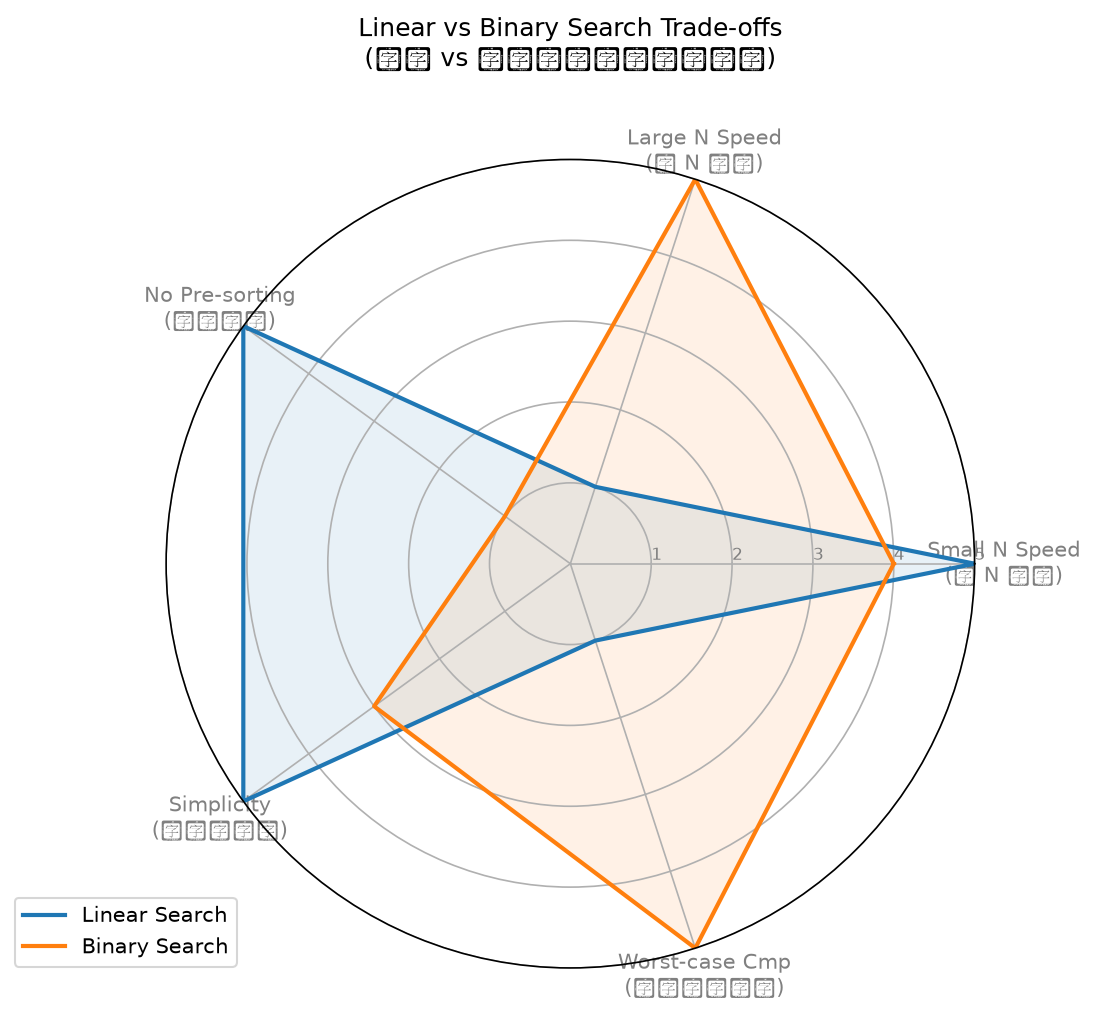
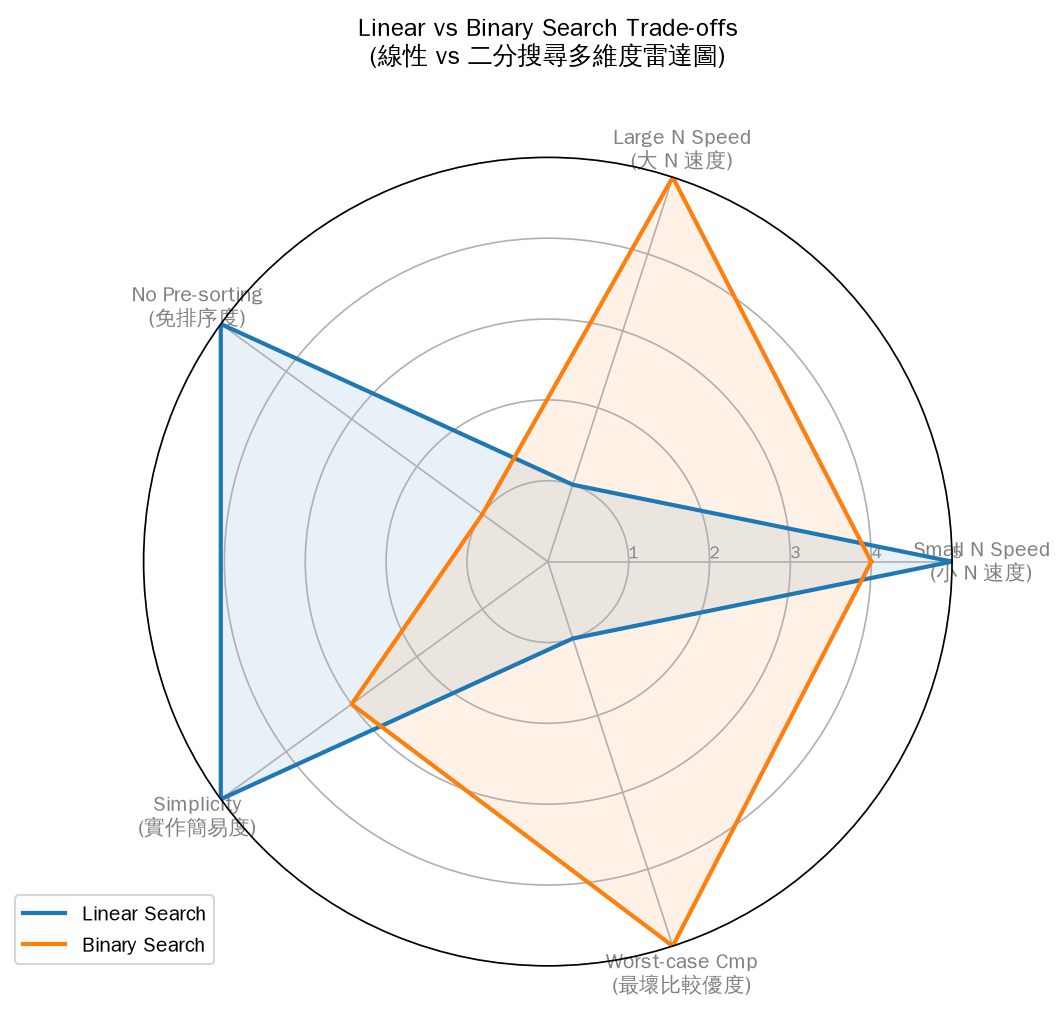
fix: fix missing Chinese fonts in radar chart

diff --git a/weeks/week-18/solutions/1114405020/plot.py b/weeks/week-18/solutions/1114405020/plot.py
@@ -6,10 +6,16 @@ import numpy as np
 matplotlib.use("Agg")
 import matplotlib.pyplot as plt
 
+# 設定中文字型與解決負號顯示問題
+matplotlib.rcParams['font.sans-serif'] = ['WenQuanYi Zen Hei', 'Microsoft JhengHei', 'DejaVu Sans', 'sans-serif']
+matplotlib.rcParams['axes.unicode_minus'] = False
+
 
 def draw_radar_chart():
     # 建立輸出目錄
-    os.makedirs("assets", exist_ok=True)
+    base_dir = os.path.dirname(os.path.abspath(__file__))
+    assets_dir = os.path.join(base_dir, "assets")
+    os.makedirs(assets_dir, exist_ok=True)
 
     # 五個評估維度（依期末考 PDF 建議維度設計）
     categories = [
@@ -81,9 +87,10 @@ def draw_radar_chart():
     plt.legend(loc="upper right", bbox_to_anchor=(0.1, 0.1))
 
     # 存檔
-    plt.savefig("assets/radar.png", dpi=150, bbox_inches="tight")
+    output_path = os.path.join(assets_dir, "radar.png")
+    plt.savefig(output_path, dpi=150, bbox_inches="tight")
     plt.close()
-    print("[*] 雷達圖 assets/radar.png 繪製成功！")
+    print(f"[*] 雷達圖 {output_path} 繪製成功！")
 
 
 if __name__ == "__main__":
